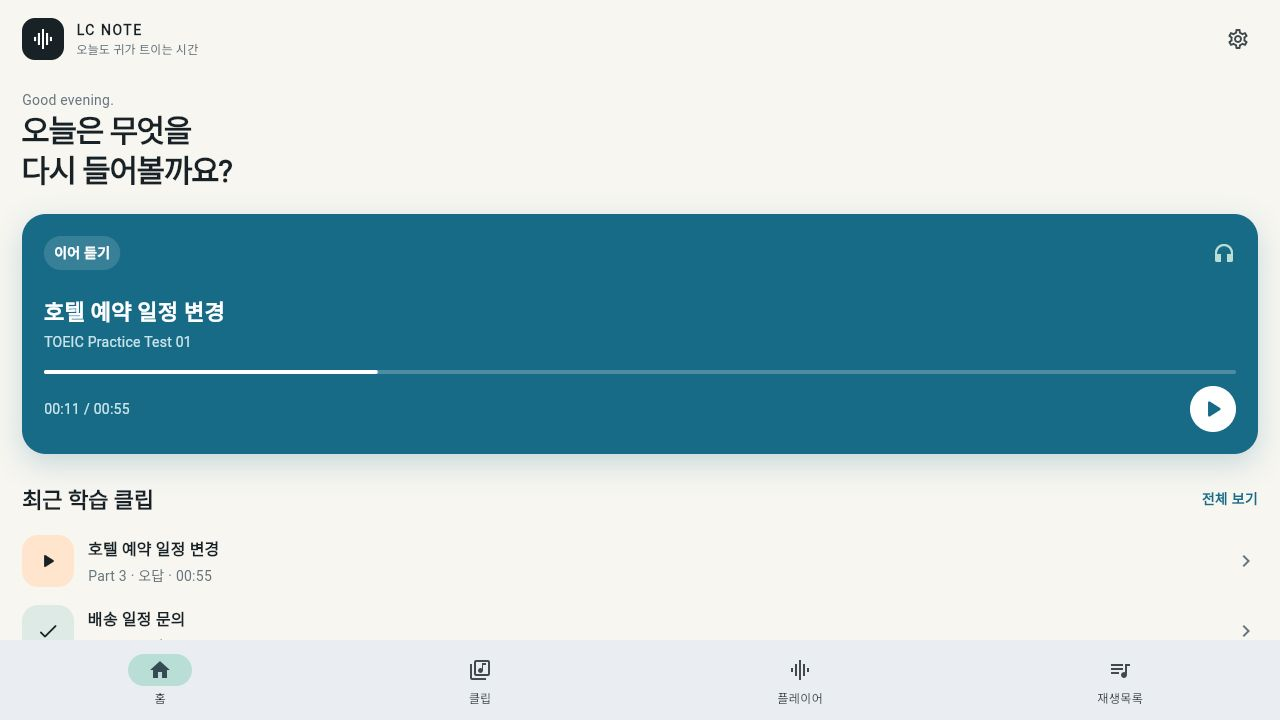
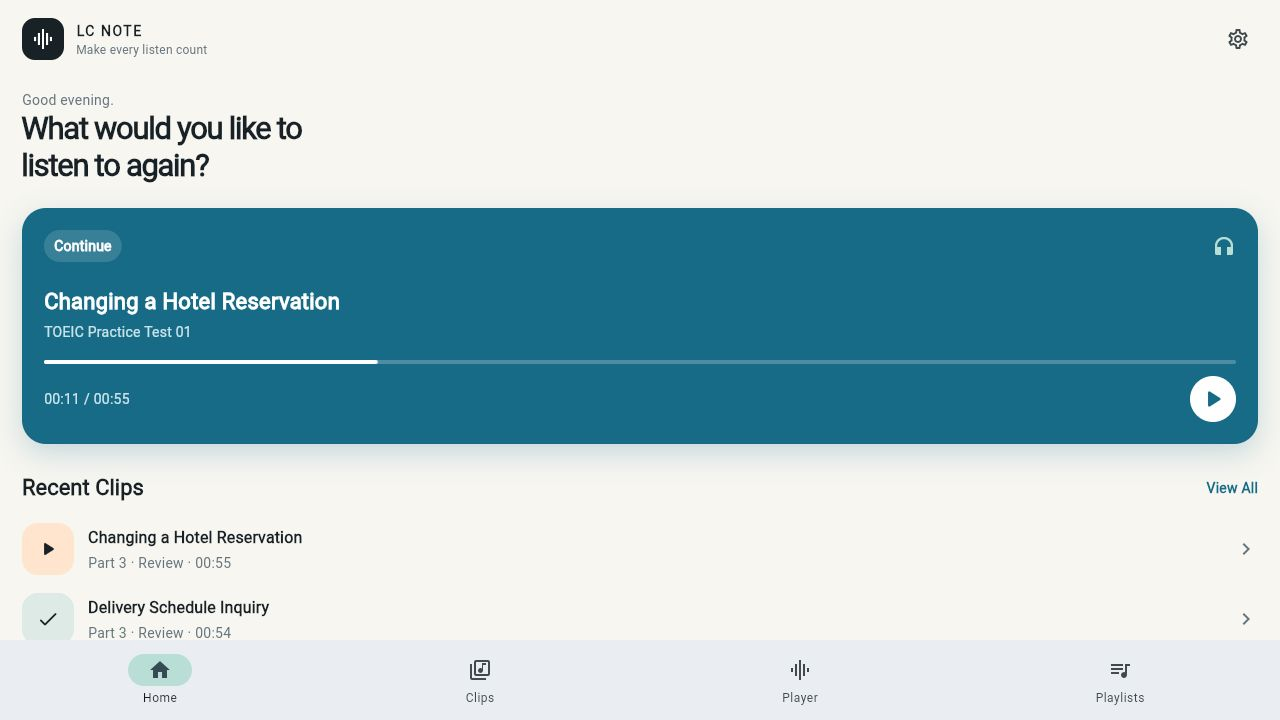
v1.1 readme changed

diff --git a/lib/main.dart b/lib/main.dart
@@ -1264,7 +1264,7 @@ class PlaylistPage extends StatelessWidget {
                           Text(
                             tr(
                               '${items.length}개 클립 · ${items.fold<int>(0, (s, e) => s + e.length.inSeconds) ~/ 60}분',
-                              '${items.length} clips · ${items.fold<int>(0, (s, e) => s + e.length.inSeconds) ~/ 60} min',
+                              '${items.length} ${items.length == 1 ? 'clip' : 'clips'} · ${items.fold<int>(0, (s, e) => s + e.length.inSeconds) ~/ 60} min',
                             ),
                             style: Theme.of(context).textTheme.bodyMedium,
                           ),

diff --git a/README.md b/README.md
@@ -18,7 +18,7 @@ The interface automatically follows the device language: Korean devices keep the
 
 ![LC Note playlists screen](docs/screenshots/playlists.png)
 
-> These screenshots were captured with the device language set to Korean. LC Note displays the corresponding English interface on devices using any other language.
+> Screenshots show the English interface. Devices using Korean as their system language display the corresponding Korean interface automatically.
 
 ## Features
 
